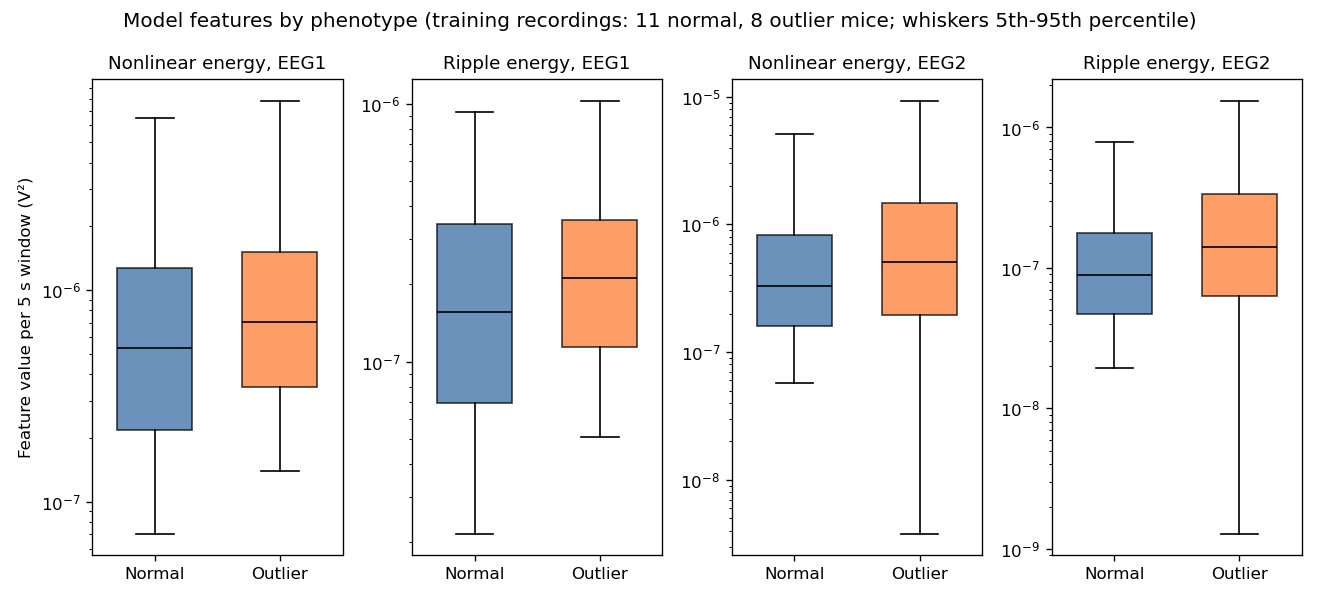
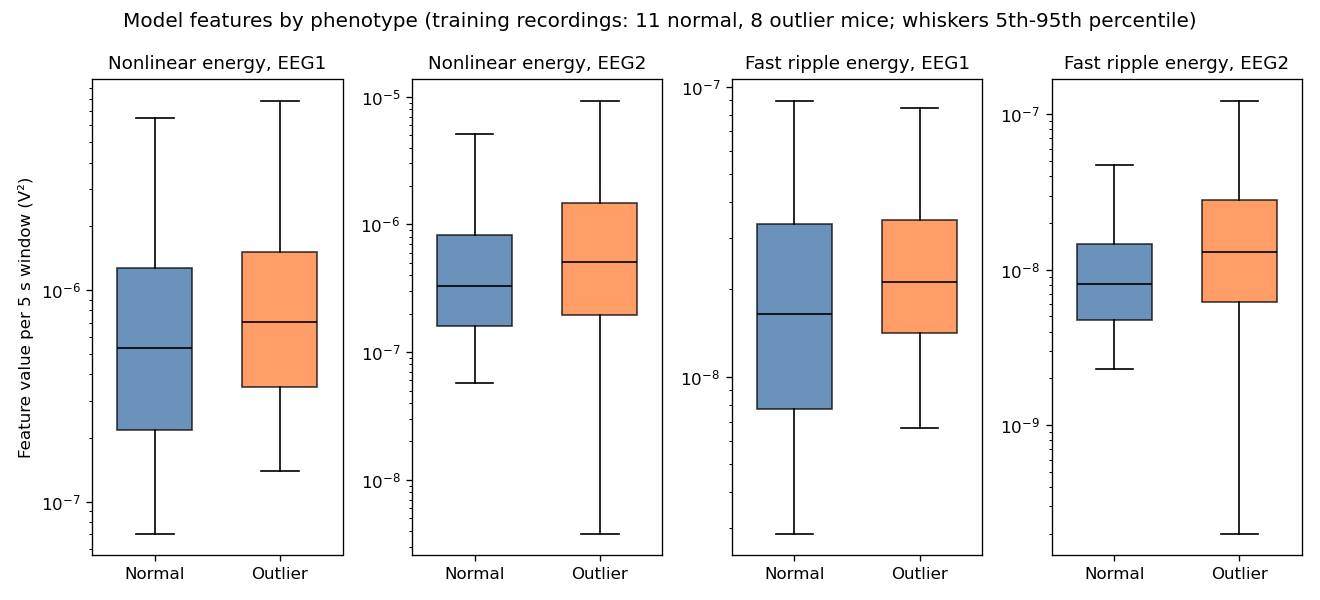
Use fast ripple (D1) and published feature order [NL1, NL2, FR1, FR2], label channel sides

diff --git a/templates/EPC_channels.html b/templates/EPC_channels.html
@@ -5,13 +5,15 @@
 <h2>Choose two EEG channels</h2>
 <p><b>{{ filename }}</b> contains {{ channels|length }} channels. EPC-AI uses two EEG channels; please choose
   which ones. Only channels sampled at {{ fs }} Hz can be used.</p>
+<p>EEG1 is channel 1, the electrode on the side of the kainic acid injection (ipsilateral). EEG2 is channel 2,
+  the electrode on the opposite side (contralateral). The order matters for the prediction.</p>
 {% if error %}<p class="error">{{ error }}</p>{% endif %}
 <form action="{{ url_for('psr_channels') }}" method="POST">
   <input type="hidden" name="token" value="{{ token }}">
   <input type="hidden" name="filename" value="{{ filename }}">
   {% for field, default in [("channel1", 0), ("channel2", 1)] %}
   <div class="field">
-    <label for="{{ field }}">{{ "EEG1" if field == "channel1" else "EEG2" }} channel:</label>
+    <label for="{{ field }}">{{ "EEG1 (ipsilateral)" if field == "channel1" else "EEG2 (contralateral)" }}:</label>
     <select name="{{ field }}" id="{{ field }}" required>
       <option value="" selected disabled>Choose…</option>
       {% for ch in channels %}

diff --git a/templates/EPC_help.html b/templates/EPC_help.html
@@ -19,7 +19,9 @@
   <h2>How the prediction is made</h2>
   <p>Each channel has its mean removed and 50 Hz mains noise filtered out, and is split into 5-second windows.
     For each window EPC-AI computes four features: the nonlinear energy of each channel, and the energy of each
-    channel's ripple band (62.5–125 Hz, from a wavelet decomposition). The classifier labels every window as
+    channel's fast ripple band (125–250 Hz, from a wavelet decomposition). Channel 1 (EEG1) should be the
+    electrode on the side of the injection (ipsilateral) and channel 2 (EEG2) the opposite side
+    (contralateral). The classifier labels every window as
     normal or outlier; the mouse is classified as outlier when 50% or more of its windows are.</p>
 
   <img class="figure" src="{{ url_for('static', filename='EEG_feature.png') }}" alt="Box plots of the four features for normal and outlier mice">

diff --git a/templates/EPC_csv.html b/templates/EPC_csv.html
@@ -9,7 +9,7 @@
       Please upload a CSV file which contains two-channel EEGs recorded during the status epilepticus period
       of intra-amygdala microinjection of kainic acid model of drug-resistant epilepsy in mice.
       The file must have two EEG columns, optionally after an index or time column, with or without a header
-      row. EPC-AI accepts recordings sampled at {{ fs }} Hz only.</p>
+      row: first the ipsilateral channel (injection side), then the contralateral. EPC-AI accepts recordings sampled at {{ fs }} Hz only.</p>
     <p><span class="label">Output</span><br>
       The web page will return to you with an evaluation indicating whether
       the EEG is more likely to exhibit normal or outlier epilepsy phenotype. Additionally, the web server

diff --git a/templates/EPC_edf.html b/templates/EPC_edf.html
@@ -8,7 +8,8 @@
     <p><span class="label">Input</span><br>
       Please upload an EDF file which contains two-channel EEGs, sampled at 500 Hz, recorded during the
       status epilepticus period of intra-amygdala microinjection of kainic acid model of drug-resistant
-      epilepsy in mice. If the file contains more than two channels, you will be asked to choose the two
+      epilepsy in mice. The first channel should be the ipsilateral electrode (injection side) and the second
+      the contralateral. If the file contains more than two channels, you will be asked to choose the two
       EEG channels to use.</p>
     <p><span class="label">Output</span><br>
       The web page will return to you with an evaluation indicating whether

diff --git a/tests/test_features.py b/tests/test_features.py
@@ -1,10 +1,10 @@
-"""Feature extraction: windowing rules, per-channel processing, and parity with training features."""
+"""Feature extraction: windowing, per-channel processing, feature order, and parity with training."""
 import numpy as np
 import pandas as pd
 import pytest
 
-from conftest import DATA_DIR, eeg, needs_data
-from epc import features, validation
+from conftest import DATA_DIR, eeg, needs_data, needs_model
+from epc import features, model as mdl, validation
 
 
 def test_windows_follow_eeg_win2():
@@ -20,13 +20,37 @@ def test_length_not_multiple_of_window():
     assert len(table) == 3 and list(table.columns) == features.FEATURE_NAMES
 
 
+def test_feature_order_matches_published_model():
+    """Mice.model expects NL C1, NL C2, fast ripple C1, fast ripple C2 (paper Fig. 6)."""
+    assert features.FEATURE_NAMES == ["Nl_ene_c1", "Nl_ene_c2", "Energy_fr_c1", "Energy_fr_c2"]
+    a, b = eeg(20), eeg(20, seed=1, scale=500e-6)
+    t = features.extract_features(a, b)
+    nl1, fr1 = features.channel_features(a)
+    nl2, fr2 = features.channel_features(b)
+    np.testing.assert_array_equal(t.to_numpy(), np.column_stack([nl1, nl2, fr1, fr2]))
+
+
+def test_fast_ripple_is_125_to_250_hz():
+    t = np.arange(20 * features.FS) / features.FS
+    for hz, inside in ((180, True), (90, False), (20, False)):
+        x = np.sin(2 * np.pi * hz * t)
+        share = features.energy(features.detail_band(x, features.FAST_RIPPLE_LEVEL)) / features.energy(x)
+        assert (share > 0.8) == inside, (hz, share)
+
+
 def test_each_channel_uses_its_own_wavelet_decomposition():
     a, b = eeg(20), eeg(20, seed=1, scale=500e-6)
     t = features.extract_features(a, b)
-    assert not np.allclose(t.Energy_rip_c1, t.Energy_rip_c2)
+    assert not np.allclose(t.Energy_fr_c1, t.Energy_fr_c2)
     swapped = features.extract_features(b, a)
-    assert np.allclose(t.Energy_rip_c2, swapped.Energy_rip_c1)
+    assert np.allclose(t.Energy_fr_c2, swapped.Energy_fr_c1)
     assert np.allclose(t.Nl_ene_c2, swapped.Nl_ene_c1)
+
+
+def _spreadsheet_test_set():
+    td = pd.read_excel(DATA_DIR / "Time_Domain_Features.xlsx", sheet_name="TEST_SET")
+    tf = pd.read_excel(DATA_DIR / "Time_Frequency_Domain_Features_Repair.xlsx", sheet_name="Sheet2")
+    return td, tf
 
 
 @needs_data
@@ -40,15 +64,29 @@ def test_matches_training_feature_spreadsheets(mouse, edf):
     The first window differs by up to 2e-5 (filter start-up), so it has a looser tolerance.
     Not used here: S10_M01, S10_M13 and S10_M20, whose spreadsheet C2 columns are a copy of C1.
     """
-    td = pd.read_excel(DATA_DIR / "Time_Domain_Features.xlsx", sheet_name="TEST_SET")
-    tf = pd.read_excel(DATA_DIR / "Time_Frequency_Domain_Features_Repair.xlsx", sheet_name="Sheet2")
+    td, tf = _spreadsheet_test_set()
     ref_td, ref_tf = td[td.mouseid == mouse], tf[tf.mouseid == mouse]
     eeg1, eeg2, _ = validation.load_edf(DATA_DIR / edf)
     t = features.extract_features(eeg1, eeg2)
     assert len(t) == len(ref_td) == len(ref_tf)
     pairs = [("Nl_ene_c1", ref_td.nonlin_energy_C1), ("Nl_ene_c2", ref_td.nonlin_energy_C2),
-             ("Energy_rip_c1", ref_tf.energy_ripple_C1), ("Energy_rip_c2", ref_tf.energy_ripple_C2)]
+             ("Energy_fr_c1", ref_tf.energy_FR_C1), ("Energy_fr_c2", ref_tf.energy_FR_C2)]
     for name, ref in pairs:
         ours, ref = t[name].to_numpy(), ref.to_numpy()
         np.testing.assert_allclose(ours[1:], ref[1:], rtol=1e-6, err_msg=name)
         np.testing.assert_allclose(ours[0], ref[0], rtol=1e-4, err_msg=f"{name}, first window")
+
+
+@needs_data
+@needs_model
+def test_reproduces_published_test_accuracy(model):
+    """On the spreadsheet test-set features the model classifies 11 of 16 mice correctly (69%)."""
+    td, tf = _spreadsheet_test_set()
+    assert (td.mouseid.values == tf.mouseid.values).all()
+    X = pd.DataFrame({"Nl_ene_c1": td.nonlin_energy_C1, "Nl_ene_c2": td.nonlin_energy_C2,
+                      "Energy_fr_c1": tf.energy_FR_C1, "Energy_fr_c2": tf.energy_FR_C2})[features.FEATURE_NAMES]
+    correct = 0
+    for mouse, rows in td.groupby("mouseid"):
+        label, _, _ = mdl.classify(model, X.loc[rows.index])
+        correct += label == ("Outlier" if rows.label.iloc[0] == 1 else "Normal")
+    assert td.mouseid.nunique() == 16 and correct == 11

diff --git a/epc/features.py b/epc/features.py
@@ -9,9 +9,14 @@ Per channel, in volts:
   2. 50 Hz notch, Q = 35, applied once forward (MATLAB `filter`, not zero-phase)
   3. split into 5 s windows of 2500 samples; a shorter final window is kept (eeg_win2.m)
   4. nonlinear energy of each window of the filtered signal
-  5. db4 wavelet decomposition to level 7 of the whole filtered signal; the level 2 detail
-     (62.5-125 Hz, "ripple") is reconstructed as MATLAB wrcoef('d', c, l, 'db4', 2) does,
-     windowed as in 3, and the energy of each window taken
+  5. db4 wavelet decomposition to level 7 of the whole filtered signal; the level 1 detail
+     ("fast ripple", 125-250 Hz at 500 Hz sampling) is reconstructed as MATLAB
+     wrcoef('d', c, l, 'db4', 1) does, windowed as in 3, and the energy of each window taken
+
+The four features and their order follow the published model (Edoho et al., Fig. 6):
+nonlinear energy of channels 1 and 2, then fast ripple energy of channels 1 and 2.
+The spreadsheet columns are nonlin_energy_C1/C2 and energy_FR_C1/C2. The paper labels the
+fast ripple band 250-500 Hz; at 500 Hz sampling the computed band is 125-250 Hz.
 """
 import numpy as np
 import pandas as pd
@@ -24,10 +29,10 @@ NOTCH_HZ = 50.0
 NOTCH_Q = 35.0
 WAVELET = "db4"
 WAVELET_LEVEL = 7
-RIPPLE_LEVEL = 2
+FAST_RIPPLE_LEVEL = 1       # wavelet detail level 1: 125-250 Hz
 
-# Column order is the order the model was trained with.
-FEATURE_NAMES = ["Nl_ene_c1", "Energy_rip_c1", "Nl_ene_c2", "Energy_rip_c2"]
+# Column order is the order the model was trained with. Do not change it.
+FEATURE_NAMES = ["Nl_ene_c1", "Nl_ene_c2", "Energy_fr_c1", "Energy_fr_c2"]
 
 _NOTCH_B, _NOTCH_A = signal.iirnotch(NOTCH_HZ, NOTCH_Q, FS)
 
@@ -43,11 +48,11 @@ def windows(x, win=WIN):
     return [x[i:i + win] for i in range(0, len(x) - 1, win)]
 
 
-def ripple_band(x):
-    """Level 2 wavelet detail reconstructed at full length (MATLAB wrcoef 'd', level 2)."""
+def detail_band(x, level):
+    """Wavelet detail at `level` reconstructed at full length (MATLAB wrcoef 'd')."""
     coeffs = pywt.wavedec(x, WAVELET, level=WAVELET_LEVEL)
     keep = [np.zeros_like(c) for c in coeffs]
-    keep[-RIPPLE_LEVEL] = coeffs[-RIPPLE_LEVEL]
+    keep[-level] = coeffs[-level]
     return pywt.waverec(keep, WAVELET)[:len(x)]
 
 
@@ -61,17 +66,15 @@ def nonlinear_energy(w):
 
 
 def channel_features(x):
-    """Nonlinear energy and ripple energy for each window of one channel (in volts)."""
+    """Nonlinear energy and fast ripple energy for each window of one channel (in volts)."""
     clean = preprocess(x)
     nl = [nonlinear_energy(w) for w in windows(clean)]
-    rip = [energy(w) for w in windows(ripple_band(clean))]
-    return nl, rip
+    fr = [energy(w) for w in windows(detail_band(clean, FAST_RIPPLE_LEVEL))]
+    return nl, fr
 
 
 def extract_features(eeg1, eeg2):
     """Feature table (one row per window) for a two-channel recording in volts."""
-    nl1, rip1 = channel_features(eeg1)
-    nl2, rip2 = channel_features(eeg2)
-    return pd.DataFrame(
-        np.column_stack([nl1, rip1, nl2, rip2]), columns=FEATURE_NAMES
-    )
+    nl1, fr1 = channel_features(eeg1)
+    nl2, fr2 = channel_features(eeg2)
+    return pd.DataFrame(np.column_stack([nl1, nl2, fr1, fr2]), columns=FEATURE_NAMES)

diff --git a/tools/make_images.py b/tools/make_images.py
@@ -90,7 +90,8 @@ def feature_figure(data_dir):
     for _, label, eeg1, eeg2 in readable_recordings(data_dir, "TRAINING"):
         tables[label].append(features.extract_features(eeg1, eeg2))
         mice[label] += 1
-    titles = ["Nonlinear energy, EEG1", "Ripple energy, EEG1", "Nonlinear energy, EEG2", "Ripple energy, EEG2"]
+    titles = ["Nonlinear energy, EEG1", "Nonlinear energy, EEG2", "Fast ripple energy, EEG1",
+              "Fast ripple energy, EEG2"]
     fig = Figure(figsize=(11, 5), dpi=120)
     axes = fig.subplots(1, 4)
     for ax, name, title in zip(axes, features.FEATURE_NAMES, titles):

diff --git a/README.md b/README.md
@@ -30,11 +30,18 @@ For each of the two channels, in volts:
 2. 50 Hz notch filter, Q = 35, applied once forward (MATLAB `filter`);
 3. split into 5 s windows of 2500 samples, keeping a shorter final window (`eeg_win2.m`);
 4. nonlinear energy of each window;
-5. db4 wavelet decomposition to level 7 of the filtered channel; the level 2 detail (62.5–125 Hz,
-   "ripple") is reconstructed as MATLAB `wrcoef` does, and its energy taken per window.
+5. db4 wavelet decomposition to level 7 of the filtered channel; the level 1 detail ("fast ripple",
+   125–250 Hz) is reconstructed as MATLAB `wrcoef` does, and its energy taken per window.
 
-The model classifies each window from the four features `Nl_ene_c1, Energy_rip_c1, Nl_ene_c2,
-Energy_rip_c2`; the mouse is "Outlier" when 50% or more of its windows are.
+The model classifies each window from four features, in this order (the published model, Fig. 6):
+`Nl_ene_c1, Nl_ene_c2, Energy_fr_c1, Energy_fr_c2` (spreadsheet columns `nonlin_energy_C1/C2`,
+`energy_FR_C1/C2`). The mouse is "Outlier" when 50% or more of its windows are. On the spreadsheet
+test-set features this reproduces the published 11 of 16 mice (69%).
+
+Channel 1 (EEG1) is the ipsilateral electrode (injection side), channel 2 (EEG2) the contralateral.
+
+Note: the paper labels the fast ripple band 250–500 Hz; at 500 Hz sampling the highest possible
+frequency is 250 Hz, and the band actually computed is 125–250 Hz.
 
 ## Input rules
 
